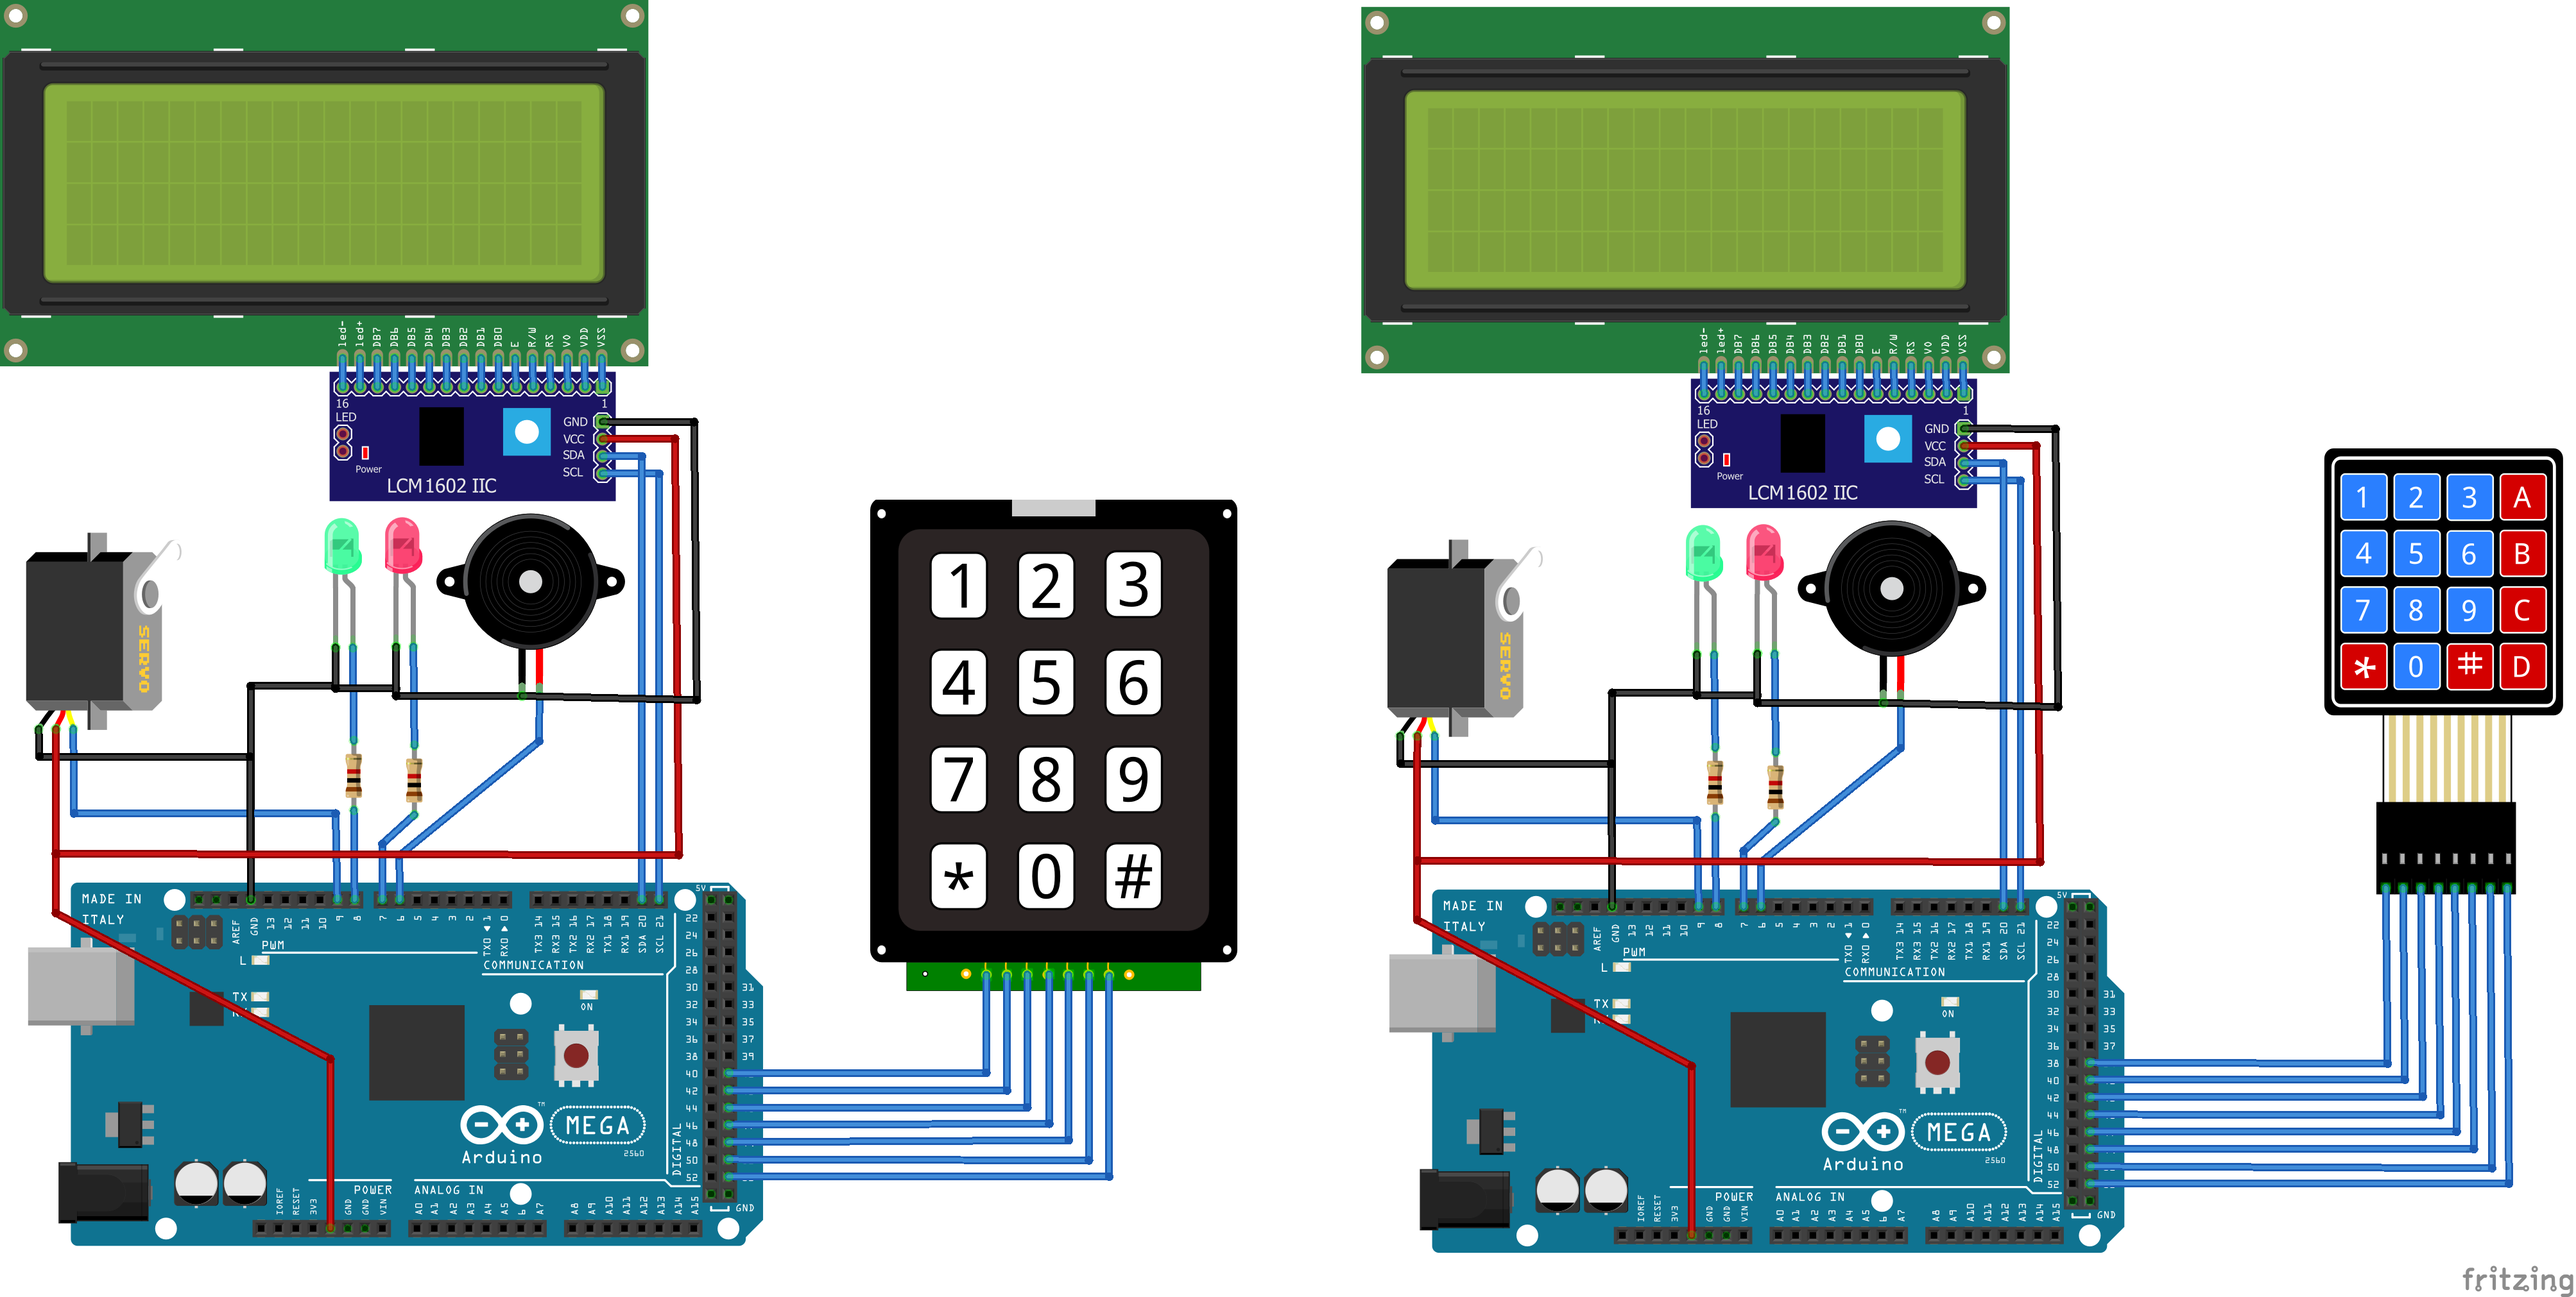
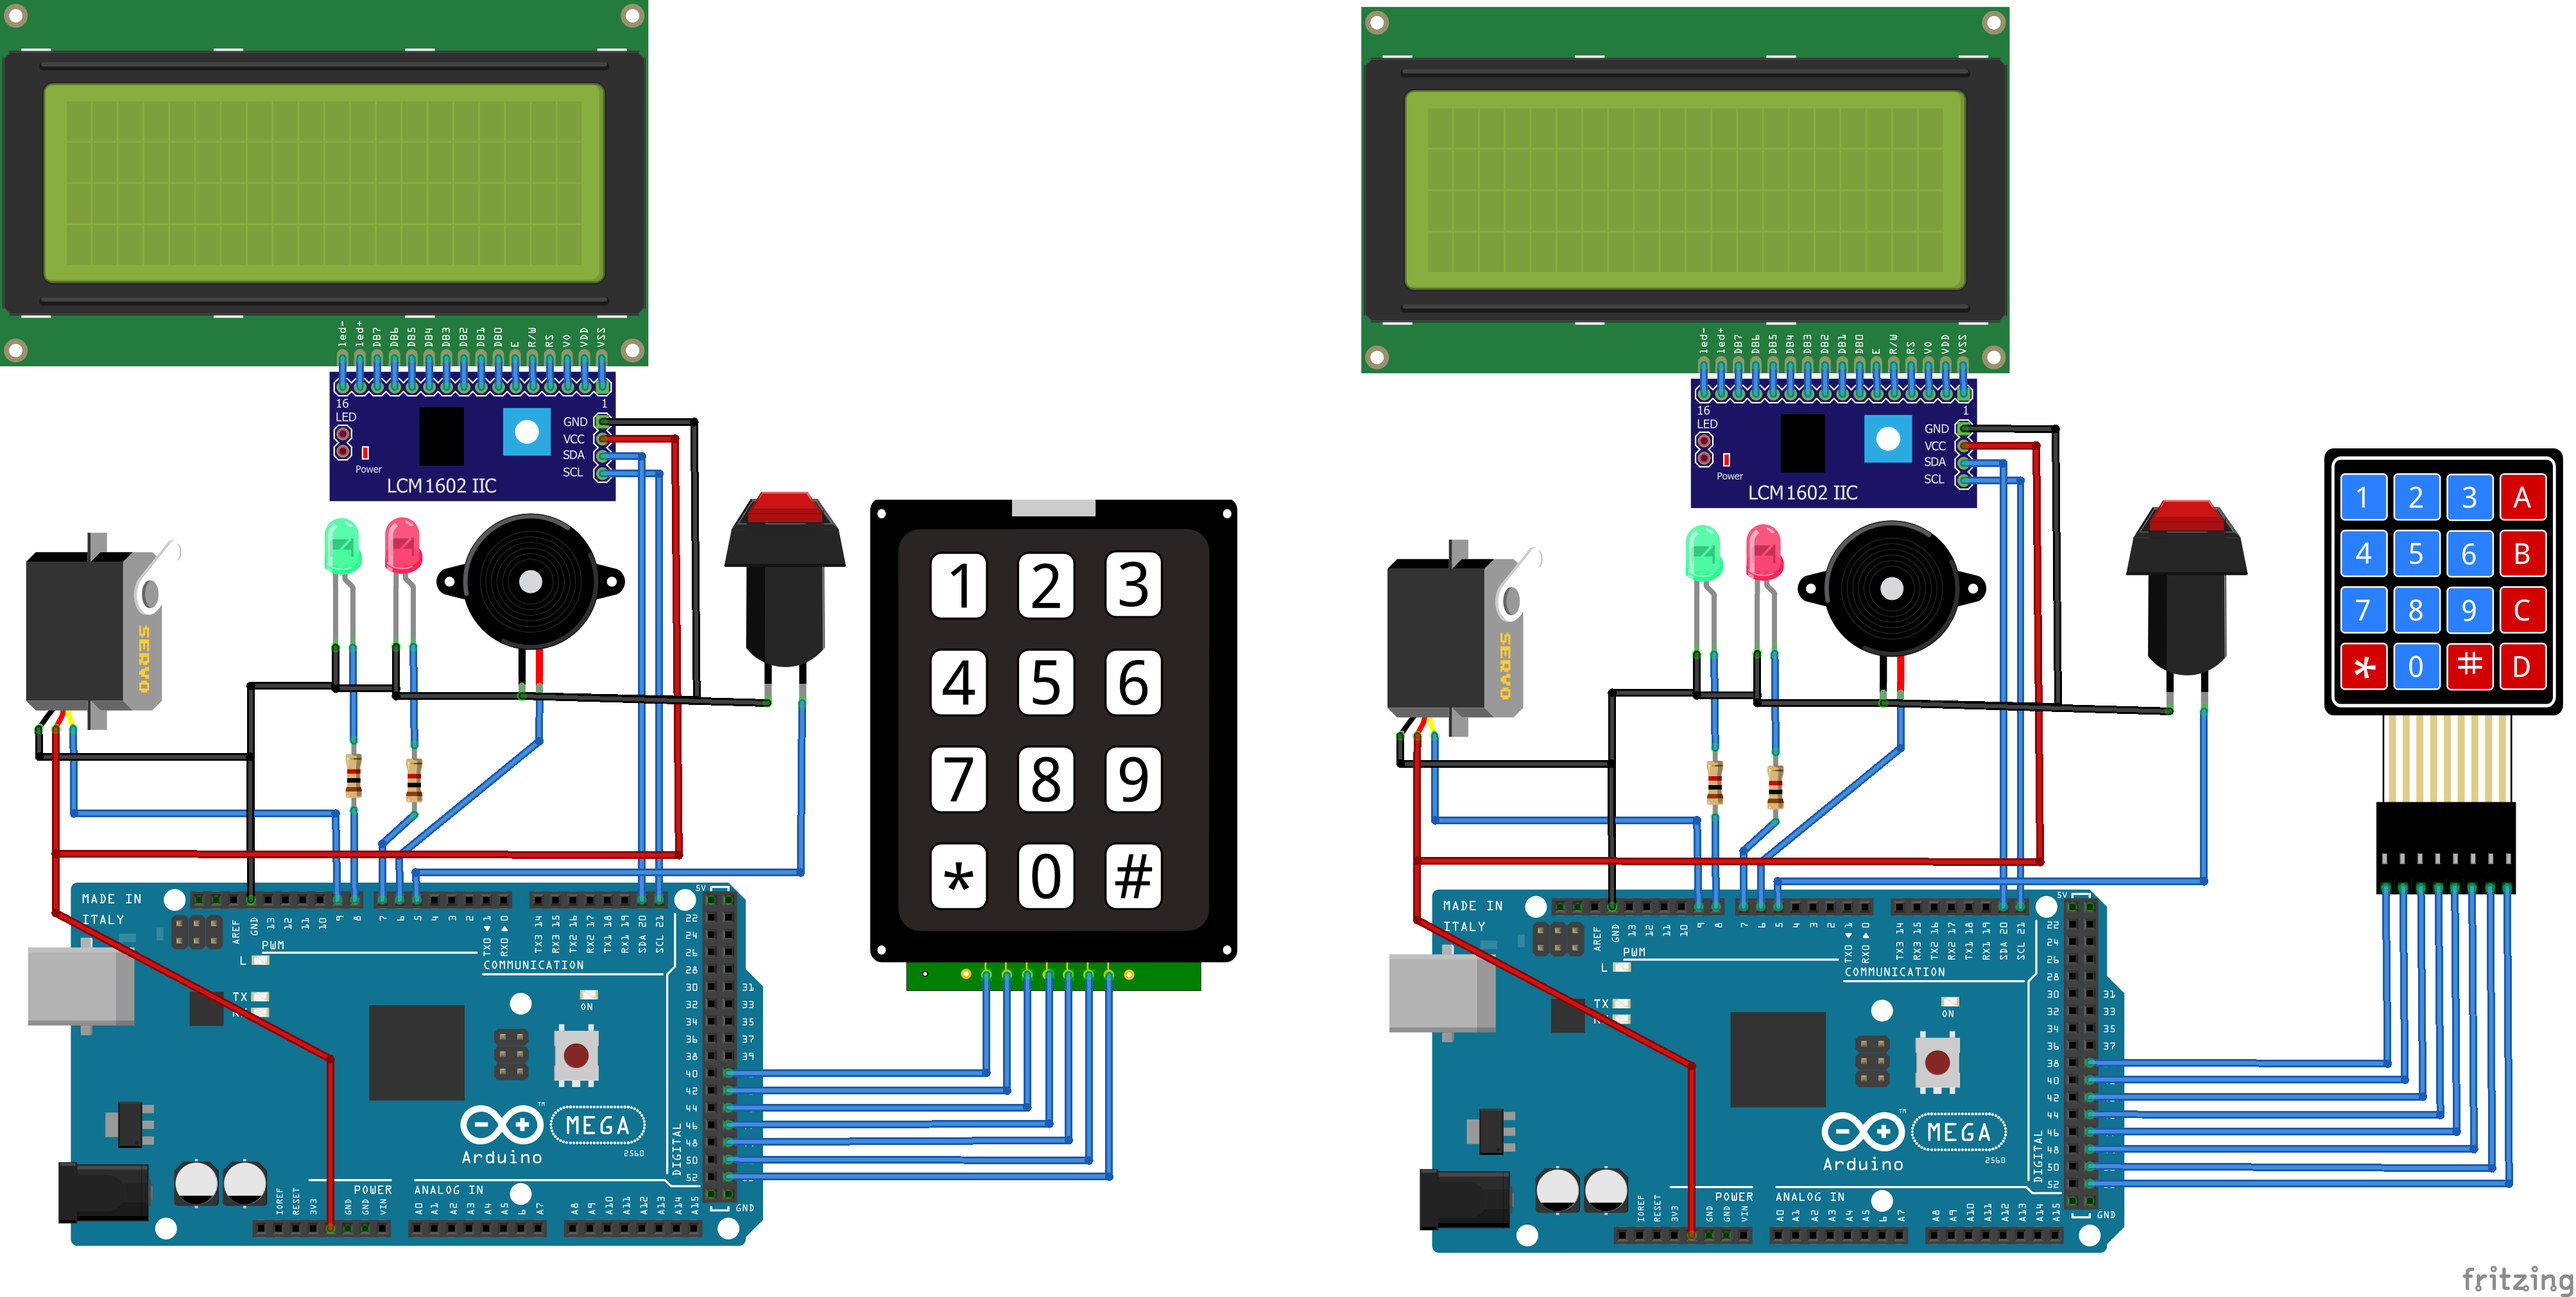
Added button for force open

diff --git a/README.md b/README.md
@@ -16,7 +16,7 @@
 * [**Keypad.h**: _Library for using matrix style keypads with the Arduino_](https://github.com/Chris--A/Keypad)
 * [**Servo.h**: _This library allows an Arduino board to control RC (hobby) servo motors_](https://github.com/arduino-libraries/Servo)
 * [**LiquidCrystal_I2C.h**: _The library allows to control I2C displays with functions extremely similar to LiquidCrystal library_](https://github.com/fdebrabander/Arduino-LiquidCrystal-I2C-library)
-
+* [**Bounce2.h**: _Debouncing library for Arduino and Wiring by Thomas Ouellet Fredericks with contributions from: Eric Lowry, Jim Schimpf, Tom Harkaway, Joachim Krüger and MrGradgrind._](https://github.com/thomasfredericks/Bounce2)
 
 #### `Pins`
 
@@ -26,6 +26,7 @@
 * GREEN_PIN			8
 * RED_PIN				7
 * BUZZER_PIN			6
+* OPEN_BUTTON			5
 
 //For Keypad 3x3
 * R1					41
